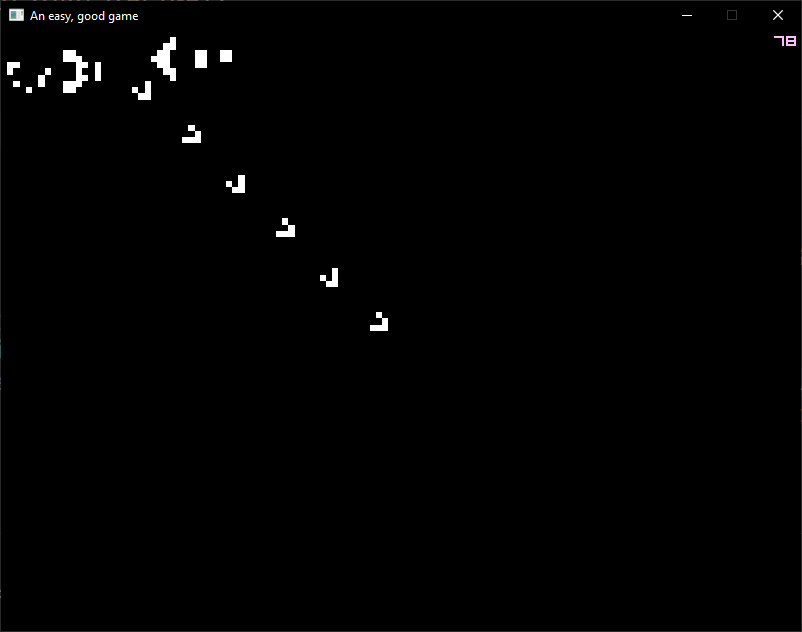
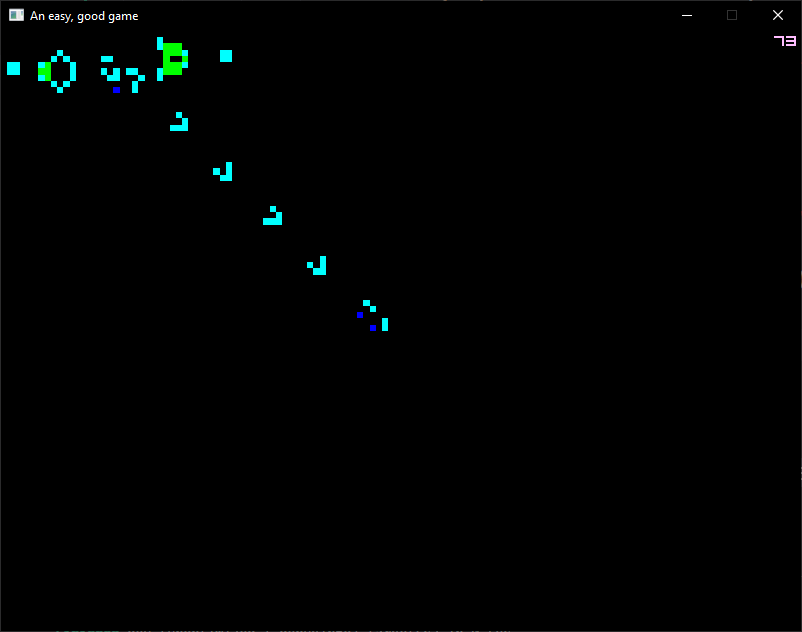
COlors

diff --git a/src/main.rs b/src/main.rs
@@ -76,11 +76,21 @@ impl EventHandler for MyGame {
 				let alive = buffer[y][x];
 
 				if alive {
+					let num = gol::gol::count_neighbors(&buffer, y, x);
+					
+					let col = match num {
+						0 => graphics::Color::BLUE,
+						1..=3 => graphics::Color::CYAN,
+						4..=7 => graphics::Color::GREEN,
+						8 => graphics::Color::MAGENTA,
+						_ => panic!("Unexpected count")
+					};
+
 					let pa = &mut graphics::MeshBuilder::new();
 					pa.rectangle(
 						graphics::DrawMode::Fill(graphics::FillOptions::DEFAULT),
 						graphics::Rect::new(x as f32 * CELL_SIZE, y as f32 * CELL_SIZE, CELL_SIZE, CELL_SIZE),
-						graphics::Color::new(1.0, 1.0, 1.0, 1.0),
+						col,
 					)?;
 
 					let mut cell = graphics::Mesh::from_data(ctx, pa.build());

diff --git a/src/gol.rs b/src/gol.rs
@@ -69,7 +69,7 @@ pub mod gol {
         false
     }
 
-    fn count_neighbors(buffer: &[[bool;WIDTH];HEIGHT], y: usize, x: usize) -> u8 {
+    pub fn count_neighbors(buffer: &[[bool;WIDTH];HEIGHT], y: usize, x: usize) -> u8 {
         const DELTA_Y: [isize;8] = [0,1,1,1,0,-1,-1,-1];
         const DELTA_X: [isize;8] = [1,1,0,-1,-1,-1,0,1];
 

diff --git a/README.md b/README.md
@@ -4,4 +4,6 @@ Conway's game of life implemented in Rust, but in GGEZ!
 The edges are void  
 
 Edit `initial_state.txt` with a custom thing and it'll load that.
+
+Now with colors:  
 ![image](demo.png)
